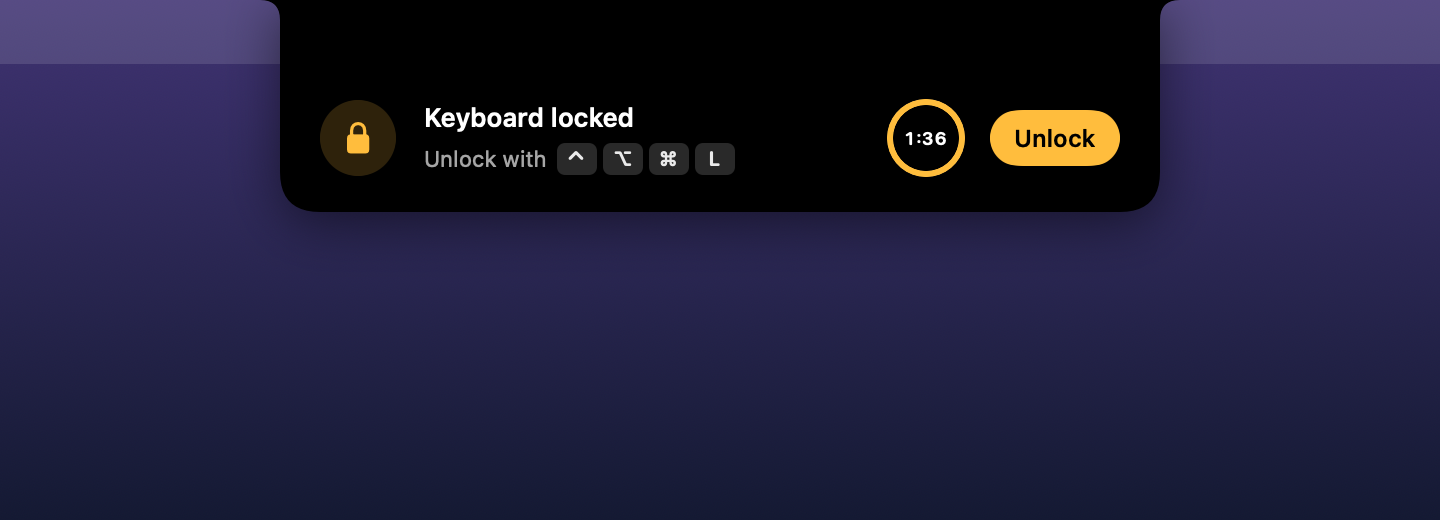
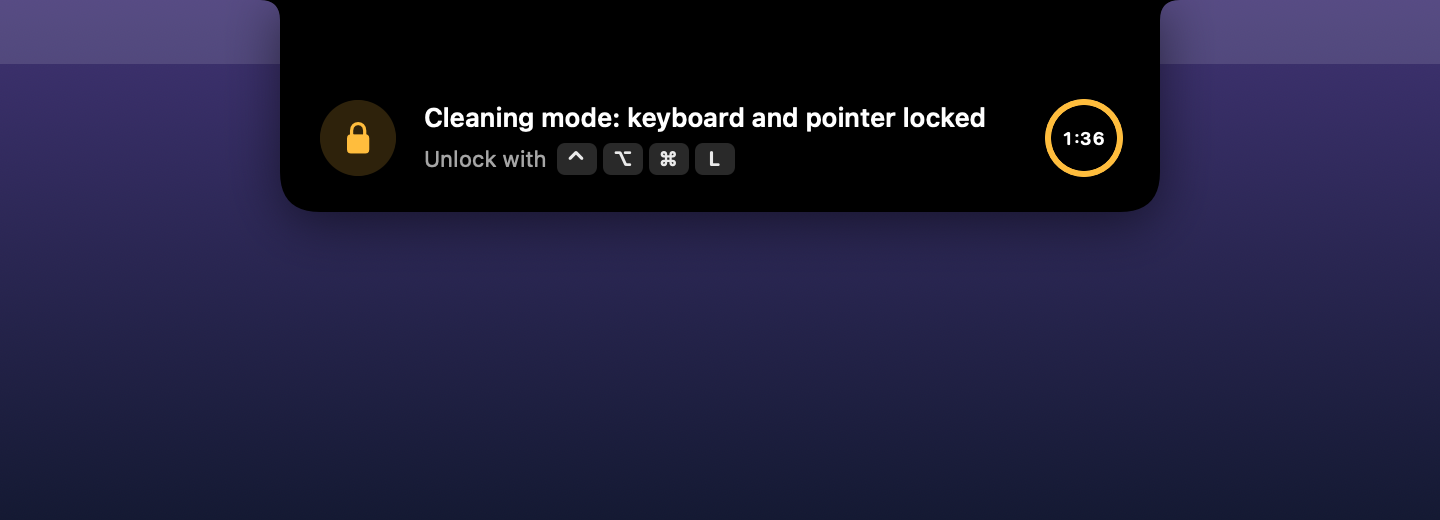
Merge keyboard and pointer lock into one Cleaning mode tool
One tap locks the keyboard, mouse and trackpad together; ⌃⌥⌘L or the
timer unlocks. Build number 4.

Changed region(s): [[0.2812, 0.1846, 0.7812, 0.3385]]

diff --git a/Sources/NotchIsland/Tools.swift b/Sources/NotchIsland/Tools.swift
@@ -6,14 +6,14 @@ import IOKit.pwr_mgt
 import SwiftUI
 
 enum ToolID: String, CaseIterable, Identifiable {
-    case keyboardLock, pointerLock, bluetooth, wifi, micMute, keepAwake, darkMode, screenshot
+    // Raw value kept as "keyboardLock" so saved tool order from 0.3 betas still applies.
+    case cleaningLock = "keyboardLock", bluetooth, wifi, micMute, keepAwake, darkMode, screenshot
 
     var id: String { rawValue }
 
     var title: String {
         switch self {
-        case .keyboardLock: L.t("Klavye kilidi", "Lock keyboard")
-        case .pointerLock: L.t("Fare kilidi", "Lock pointer")
+        case .cleaningLock: L.t("Temizlik modu", "Cleaning mode")
         case .bluetooth: "Bluetooth"
         case .wifi: "Wi-Fi"
         case .micMute: L.t("Mikrofon", "Microphone")
@@ -26,8 +26,8 @@ enum ToolID: String, CaseIterable, Identifiable {
     /// Longer description for Settings.
     var detail: String {
         switch self {
-        case .keyboardLock: L.t("Temizlik için klavyeyi kapatır. Açmak için ⌃⌥⌘L.", "Disables the keyboard for cleaning. Press ⌃⌥⌘L to unlock.")
-        case .pointerLock: L.t("Fareyi ve trackpad'i kapatır. Açmak için ⌃⌥⌘L.", "Disables the mouse and trackpad. Press ⌃⌥⌘L to unlock.")
+        case .cleaningLock: L.t("Klavyeyi, fareyi ve trackpad'i birlikte kilitler. Açmak için ⌃⌥⌘L.",
+                                "Locks the keyboard, mouse and trackpad together. Press ⌃⌥⌘L to unlock.")
         case .bluetooth: L.t("Bluetooth'u açar veya kapatır.", "Turns Bluetooth on or off.")
         case .wifi: L.t("Wi-Fi'yi açar veya kapatır.", "Turns Wi-Fi on or off.")
         case .micMute: L.t("Varsayılan mikrofonu sessize alır.", "Mutes the default microphone.")
@@ -39,8 +39,7 @@ enum ToolID: String, CaseIterable, Identifiable {
 
     func symbol(active: Bool) -> String {
         switch self {
-        case .keyboardLock: active ? "lock.fill" : "keyboard"
-        case .pointerLock: active ? "lock.fill" : "cursorarrow"
+        case .cleaningLock: active ? "lock.fill" : "keyboard"
         case .bluetooth: "dot.radiowaves.left.and.right"
         case .wifi: active ? "wifi" : "wifi.slash"
         case .micMute: active ? "mic.slash.fill" : "mic.fill"
@@ -51,7 +50,7 @@ enum ToolID: String, CaseIterable, Identifiable {
     }
 
     /// Lock tools use the amber accent when active; everything else uses white.
-    var isLock: Bool { self == .keyboardLock || self == .pointerLock }
+    var isLock: Bool { self == .cleaningLock }
 
     static let defaultOrder: [ToolID] = allCases
 }
@@ -210,8 +209,7 @@ final class ToolsController: ObservableObject {
 
     func isActive(_ tool: ToolID) -> Bool {
         switch tool {
-        case .keyboardLock: lock?.keyboard == true
-        case .pointerLock: lock?.pointer == true
+        case .cleaningLock: lock != nil
         case .bluetooth: bluetoothOn == true
         case .wifi: wifiOn == true
         case .micMute: micMuted
@@ -233,8 +231,8 @@ final class ToolsController: ObservableObject {
 
     func perform(_ tool: ToolID) {
         switch tool {
-        case .keyboardLock: setLock(keyboard: !(lock?.keyboard ?? false), pointer: lock?.pointer ?? false)
-        case .pointerLock: setLock(keyboard: lock?.keyboard ?? false, pointer: !(lock?.pointer ?? false))
+        case .cleaningLock:
+            if lock == nil { setLock(keyboard: true, pointer: true) } else { unlockAll() }
         case .bluetooth: toggleBluetooth()
         case .wifi: toggleWiFi()
         case .micMute:

diff --git a/Sources/NotchIsland/PreviewRenderer.swift b/Sources/NotchIsland/PreviewRenderer.swift
@@ -26,7 +26,7 @@ enum PreviewRenderer {
                 ("expanded-empty", { m, _ in m.expanded = true }),
                 ("tools", { m, _ in m.expanded = true; m.page = .tools }),
                 ("locked", { m, _ in
-                    m.lock = LockInfo(keyboard: true, pointer: false, startedAt: Date(), endsAt: Date().addingTimeInterval(97))
+                    m.lock = LockInfo(keyboard: true, pointer: true, startedAt: Date(), endsAt: Date().addingTimeInterval(97))
                 }),
                 ("volume", { m, _ in m.show(.hud(.volume, 0.62, muted: false), for: 60) }),
                 ("brightness", { m, _ in m.show(.hud(.brightness, 0.8, muted: false), for: 60) }),

diff --git a/Sources/NotchIsland/ToolsView.swift b/Sources/NotchIsland/ToolsView.swift
@@ -148,7 +148,7 @@ struct LockedView: View {
 
     private var title: String {
         switch (lock.keyboard, lock.pointer) {
-        case (true, true): L.t("Klavye ve fare kilitli", "Keyboard and pointer locked")
+        case (true, true): L.t("Temizlik modu: klavye ve fare kilitli", "Cleaning mode: keyboard and pointer locked")
         case (true, false): L.t("Klavye kilitli", "Keyboard locked")
         default: L.t("Fare ve trackpad kilitli", "Mouse and trackpad locked")
         }

diff --git a/README.tr.md b/README.tr.md
@@ -22,14 +22,14 @@
 - 🎵 **Müzik:** Spotify, Apple Music, YouTube Music, Spotify Web. Kapak resmi ve oynatma kontrolleri.
 - 🔊 **Ses ve parlaklık:** Sistemin açılır göstergesi yerine adada görünür.
 - 🔔 **Bildirimler:** SMS, Telegram, WhatsApp ve sistem uyarıları köşe yerine adada görünür.
-- 🧰 **Araçlar:** klavyeyi veya fare ve trackpad'i kilitleme (temizlik için), Bluetooth, Wi-Fi, mikrofon, uyanık tut, karanlık mod, ekran görüntüsü. Hangilerinin görüneceğini ve sırasını Ayarlar'dan seçersin.
+- 🧰 **Araçlar:** temizlik modu (klavyeyi, fareyi ve trackpad'i birlikte kilitler), Bluetooth, Wi-Fi, mikrofon, uyanık tut, karanlık mod, ekran görüntüsü. Hangilerinin görüneceğini ve sırasını Ayarlar'dan seçersin.
 - 🔋 **Pil ve AirPods:** Şarj, düşük pil, kulaklık bağlandı.
 - 💻 **Çentik yok mu? Sorun değil.** Ekranın üstünde sanal bir ada belirir.
 - ⬆ **Güncellemeler:** yeni sürüm çıkınca her pencerenin üstünde bir kart belirir, tek tıkla kurulur.
 
 Üzerine gelince ada genişler. Tıklayınca açılıp kapanır. Sol üstteki düğmelerle Müzik ve Araçlar arasında geçersin.
 
-**Temizlik için klavye kilidi:** Araçlar'ı aç, *Klavye kilidi*'ne bas ve rahatça sil. Açmak için <kbd>⌃</kbd><kbd>⌥</kbd><kbd>⌘</kbd><kbd>L</kbd> tuşlarına bas ya da adadaki *Kilidi aç* düğmesine tıkla. Güvenlik için kilit 2 dakika sonra kendiliğinden açılır (süre ayarlanabilir).
+**Temizlik modu:** Araçlar'ı aç, *Temizlik modu*'na bas ve rahatça sil: klavye, fare ve trackpad birlikte kilitlenir. Açmak için <kbd>⌃</kbd><kbd>⌥</kbd><kbd>⌘</kbd><kbd>L</kbd> tuşlarına bas. Güvenlik için kilit 2 dakika sonra kendiliğinden açılır (süre ayarlanabilir).
 
 <p align="center">
   <img src="docs/tools-notch.png" width="400">

diff --git a/README.md b/README.md
@@ -22,14 +22,14 @@
 - 🎵 **Music:** Spotify, Apple Music, YouTube Music, Spotify Web. Cover art and playback controls.
 - 🔊 **Volume and brightness:** shown in the island instead of the system popup.
 - 🔔 **Notifications:** SMS, Telegram, WhatsApp and system alerts show up in the island instead of the corner.
-- 🧰 **Tools:** lock the keyboard or the mouse and trackpad (for cleaning), Bluetooth, Wi-Fi, microphone, keep awake, dark mode, screenshot. Pick and order them in Settings.
+- 🧰 **Tools:** cleaning mode (locks the keyboard, mouse and trackpad together), Bluetooth, Wi-Fi, microphone, keep awake, dark mode, screenshot. Pick and order them in Settings.
 - 🔋 **Battery and AirPods:** charging, low battery, headphones connected.
 - 💻 **No notch? No problem.** A virtual island appears at the top of the screen.
 - ⬆ **Updates:** when a new version is out, a card appears on top of every window. One click installs it.
 
 Hover the island to expand it. Click to open or close. Switch between Music and Tools with the buttons at the top left.
 
-**Keyboard lock for cleaning:** open Tools, tap *Lock keyboard* and wipe away. Press <kbd>⌃</kbd><kbd>⌥</kbd><kbd>⌘</kbd><kbd>L</kbd> to unlock, or click *Unlock* in the island. For safety the lock always opens by itself after 2 minutes (adjustable).
+**Cleaning mode:** open Tools, tap *Cleaning mode* and wipe away: the keyboard, mouse and trackpad are locked together. Press <kbd>⌃</kbd><kbd>⌥</kbd><kbd>⌘</kbd><kbd>L</kbd> to unlock, For safety the lock always opens by itself after 2 minutes (adjustable).
 
 <p align="center">
   <img src="docs/tools-notch.png" width="400">
